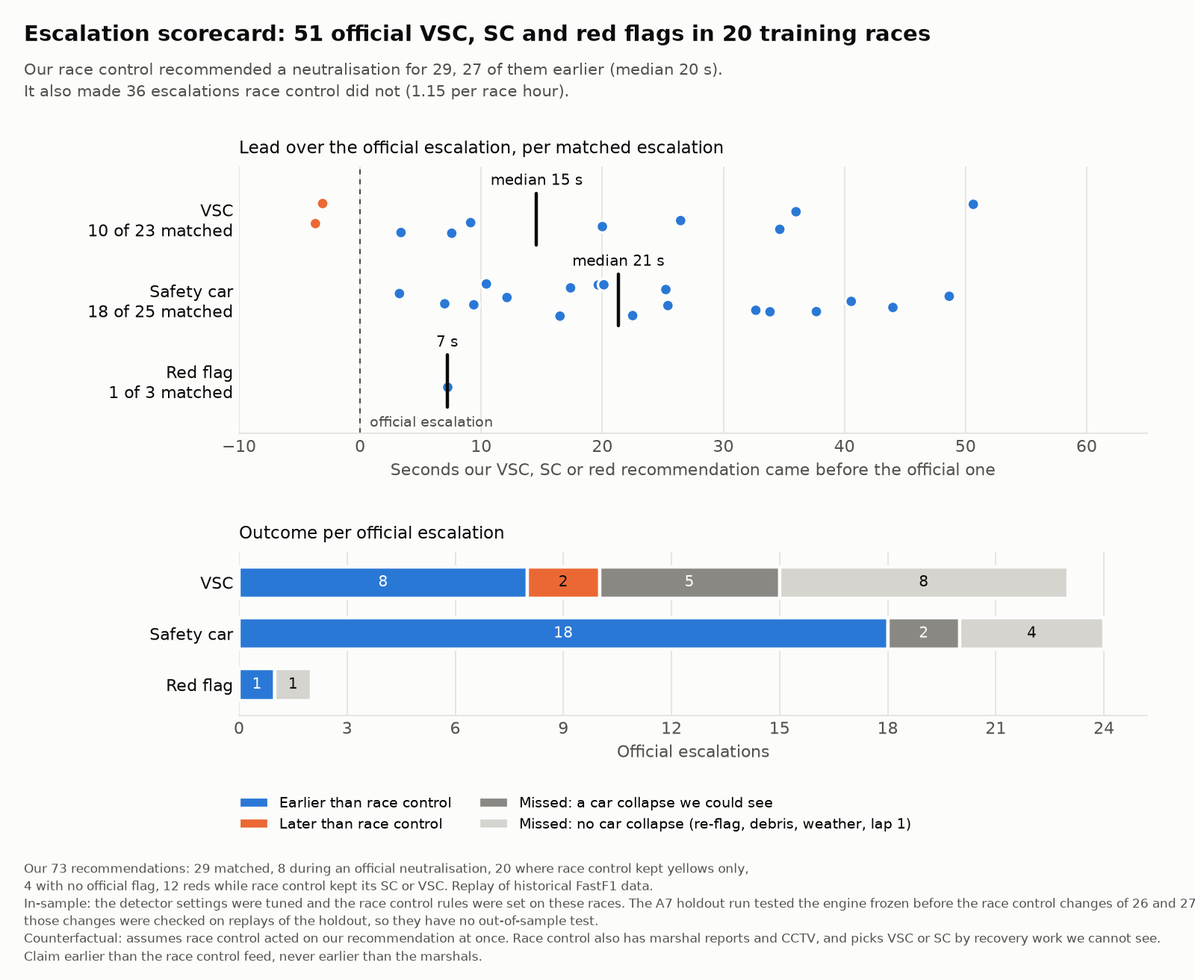
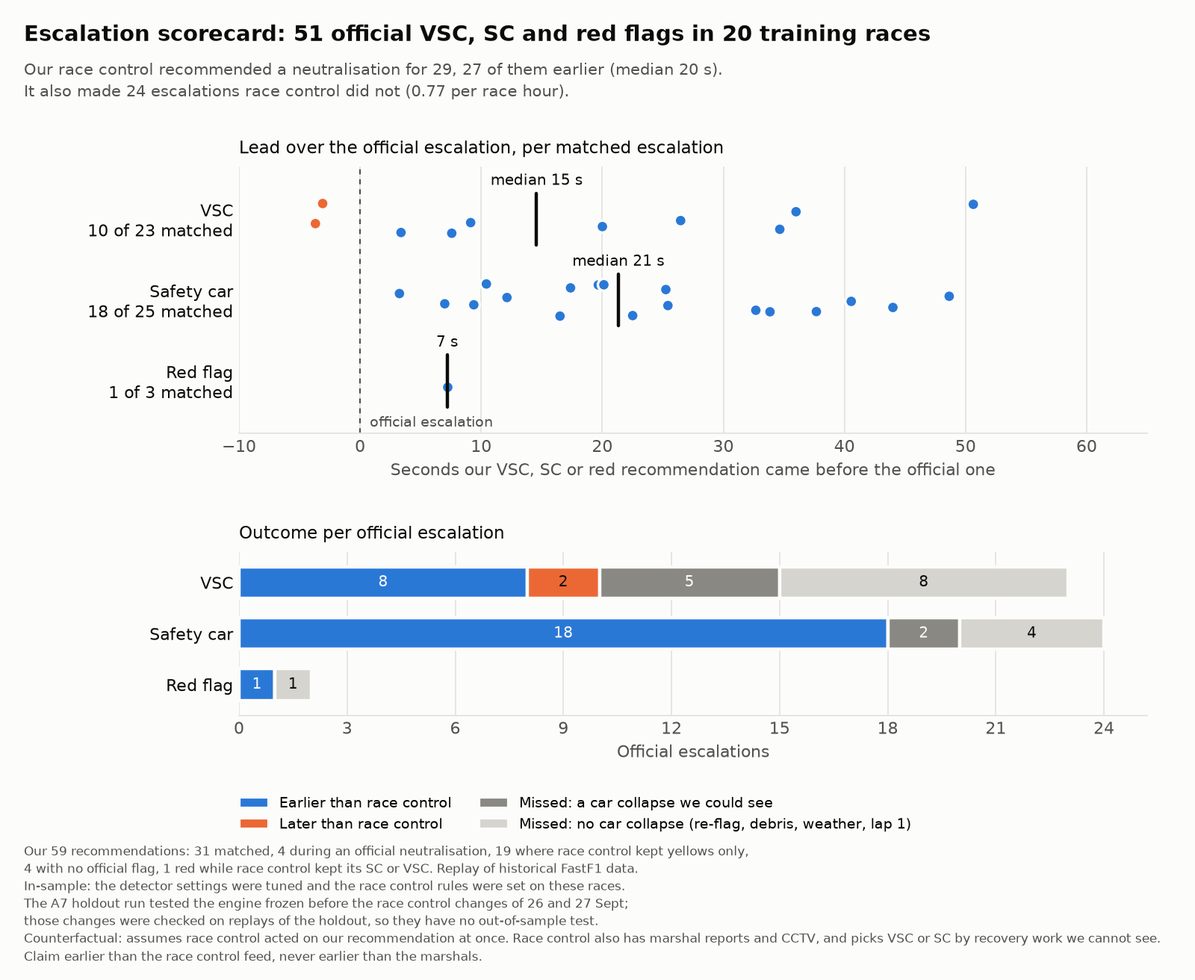
A: escalation scorecard with the late-race red (PR #23): 0.77 extras per race hour, 3 reds
Rerun on main after the lab's red flag fix; the scorecard and case study pass the race
length to race control (race_laps_from_track), as the live client does.

- Headline unchanged: 29 of 51 official escalations recommended, 27 earlier, median 20 s.
- Extras back to 24 (0.77 per race hour). We send 3 reds, all late in the race; race
  control showed a red around 2 of them and never called 1.
- The red check counts a red of ours already out when race control's red came, like
  "already out" for escalations: race control's red for Magnussen (2023 Australia) is a
  separate official incident from its SC, and our red was out 121 s before it. Result:
  red in 2 of race control's 5 red incidents, median 64 s earlier. The per-incident
  "ours only" count is dropped (it split that incident in two); reds race control never
  called are counted per red we send.
- Sweeps rerun: the settings stay 3 s and 10 s.

Changed region(s): [[0.0, 0.8438, 1.0, 0.9375]]

diff --git a/src/eval/escalation.py b/src/eval/escalation.py
@@ -63,7 +63,7 @@ from src.eval.onset import add_own_ratio, onsets
 from src.eval.run import belongs
 from src.ingest.features import NEUTRAL_STATUS
 from src.ingest.holdout import assert_not_holdout
-from src.racecontrol.engine import RaceControl
+from src.racecontrol.engine import RaceControl, race_laps_from_track
 from src.replay.engine import Engine, Processor, RaceData, available_races
 
 CHARTS = Path("docs/charts")
@@ -87,7 +87,7 @@ EXTRA = ("official yellows only", "escalated incident, outside the match window"
 
 def replay(race: RaceData, suite: Processor) -> tuple[list[dict], list[dict], list[float]]:
     """Returns (detections, recommendations, times the engine reset its flag state)."""
-    rc, eng = RaceControl(), Engine(race, [suite])
+    rc, eng = RaceControl(race_laps=race_laps_from_track(race.track)), Engine(race, [suite])
     dets, recs, resets = [], [], []
     for step in eng.steps(eng.t_end):
         for env in step.envelopes:
@@ -140,6 +140,16 @@ def track_wide_at(changes: list[tuple[float, str, int | None]], t: float) -> tup
             break
         since, flag, cause = tc, f, ms
     return flag, since, cause
+
+
+def red_out_since(changes: list[tuple[float, str, int | None]], t: float) -> float | None:
+    """When our track-wide flag last went to RED, if it is still RED at t; None otherwise."""
+    since = None
+    for tc, f, _ in changes:
+        if tc > t:
+            break
+        since = (since if since is not None else tc) if f == "RED" else None
+    return since
 
 
 def status_at(status: pd.Series, t: float) -> str:
@@ -223,6 +233,8 @@ def race_scorecard(rid: str, suite_for: Callable[[RaceData], Processor] = loro_s
         off_red = [m["t"] for m in inc.messages if m["flag"] == "RED"]
         our_red = [r["t"] for r in esc if r["flag"] == "RED" and inc.t - MATCH_BEFORE_S <= r["t"] <= t_end
                    and in_sectors(r["msector"], inc, n)]
+        if off_red and not our_red and (since := red_out_since(changes, min(off_red))) is not None:
+            our_red = [since]    # our red was already out, as "already out" for escalations
         row = {"race": rid, "t_incident": inc.t, "t_official": first["t"], "official_flag": first["flag"],
                "official_top": max((m["flag"] for m in msgs), key=RANK.get),
                "sectors": " ".join(map(str, sorted(inc.sectors))) or "track-wide", "status": "",
@@ -332,23 +344,29 @@ def summarise(results: list[dict]) -> dict:
 
 
 def our_reds(ours: pd.DataFrame) -> dict:
-    """Every red flag we sent: by time at a crash site or for a multi-car crash, and whether
-    race control showed a red around it (its red status, or a RED message from 60 s before to
-    RED_WINDOW_S after)."""
+    """Every red flag we sent: late in the race (the rule in use), by time at a crash site or
+    for a multi-car crash (the old rules, RED_BY_TIME and RED_FROM_MULTI in the engine), and
+    whether race control showed a red around it (its red status, or a RED message from 60 s
+    before to RED_WINDOW_S after)."""
     red = ours[ours["flag"] == "RED"]
     timed = red["reason"].str.contains("crash site", na=False)
+    late = red["reason"].str.contains("laps left", na=False)
     called = red["race_control_red"].astype(bool)
-    return {"total": len(red), "time_based": int(timed.sum()), "multi_car": int((~timed).sum()),
+    return {"total": len(red), "late_race": int(late.sum()), "time_based": int(timed.sum()),
+            "multi_car": int((~timed & ~late).sum()),
             "with_race_control_red": int(called.sum()), "without_race_control_red": int((~called).sum()),
             "time_based_without": int((timed & ~called).sum())}
 
 
 def red_check(off: pd.DataFrame) -> dict:
-    """Red flags per official escalated incident, until race control's TRACK CLEAR:
-    both (lead = official red time - ours), race control only, ours only."""
+    """Race control's red flags per official escalated incident, until its TRACK CLEAR: both
+    (our red in the incident's window, or already out when race control's red came; lead =
+    official red time - ours) or race control only. Reds race control never called are
+    counted per red we sent (our_reds), because race control's red for one crash can be a
+    separate official incident from its SC (2023 Australia, Magnussen)."""
     o, u = off["official_red_t"].notna(), off["our_red_t"].notna()
     lead = (off.loc[o & u, "official_red_t"] - off.loc[o & u, "our_red_t"]).to_numpy(float)
-    return {"both": int((o & u).sum()), "race_control_only": int((o & ~u).sum()), "ours_only": int((~o & u).sum()),
+    return {"both": int((o & u).sum()), "race_control_only": int((o & ~u).sum()),
             "median_lead_s": round(float(np.median(lead)), 1) if len(lead) else None}
 
 
@@ -387,9 +405,9 @@ SEGMENTS = [("earlier", "Earlier than race control", BLUE, SURFACE),
             ("later", "Later than race control", ORANGE, INK),
             ("car collapse seen", "Missed: a car collapse we could see", GRAY_DARK, SURFACE),
             ("no car collapse", "Missed: no car collapse (re-flag, debris, weather, lap 1)", GRAY_LIGHT, INK)]
-IN_SAMPLE = ("In-sample: the detector settings were tuned and the race control rules were set on these races. The A7 "
-             "holdout run tested the engine frozen before the race control changes of 26 and 27 Sept;\nthose changes were checked "
-             "on replays of the holdout, so they have no out-of-sample test.")
+IN_SAMPLE = ("In-sample: the detector settings were tuned and the race control rules were set on these races.\nThe A7 "
+             "holdout run tested the engine frozen before the race control changes of 26 and 27 Sept;\nthose changes were "
+             "checked on replays of the holdout, so they have no out-of-sample test.")
 COUNTERFACTUAL = ("Counterfactual: assumes race control acted on our recommendation at once. Race control also has "
                   "marshal reports and CCTV, and picks VSC or SC by recovery work we cannot see. Claim earlier than "
                   "the race control feed, never earlier than the marshals.")
@@ -486,13 +504,17 @@ def plot(off: pd.DataFrame, summ: dict, path: Path, title: str | None = None, sc
 
 
 def red_text(r: dict, o: dict) -> str:
+    """The red flag line of the report and NUMBERS.md: per official incident, then every red we sent."""
     lead = "" if r["median_lead_s"] is None else f", median {r['median_lead_s']:.0f} s earlier"
+    kinds = ", ".join(f"{n} {what}" for n, what in ((o.get("late_race", 0), "late in the race"),
+                                                    (o["time_based"], "by time at a crash site"),
+                                                    (o["multi_car"], "for multi-car crashes")) if n)
+    timed = f" ({o['time_based_without']} of them by time at a crash site)" if o["time_based_without"] else ""
     return (f"- Red flags: race control showed a red in {r['both'] + r['race_control_only']} of its escalated "
-            f"incidents and we recommended red in {r['both']} of them{lead}. In all we sent {o['total']} red flags "
-            f"({o['time_based']} by time at a crash site, {o['multi_car']} for multi-car crashes); race control showed "
-            f"a red around {o['with_race_control_red']} of them, and {o['without_race_control_red']} were reds race "
-            f"control never called ({o['time_based_without']} of them by time at a crash site). The data cannot see "
-            "barrier damage, debris or medical needs: do not claim red flag accuracy.")
+            f"incidents and we recommended red in {r['both']} of them{lead}. In all we sent {o['total']} red "
+            f"flag{'' if o['total'] == 1 else 's'}{f' ({kinds})' if kinds else ''}; race control showed a red around "
+            f"{o['with_race_control_red']} of them and never called {o['without_race_control_red']}{timed}. The data "
+            "cannot see barrier damage, debris or medical needs: do not claim red flag accuracy.")
 
 
 def pairs_text(pairs: dict[str, int]) -> str:
@@ -544,8 +566,8 @@ def write_report(off: pd.DataFrame, ours: pd.DataFrame, summ: dict, results: lis
               f"- Extra, race control never escalated: {summ['extra']}, {summ['extra_per_hour']:.2f} per race hour "
               f"({c['official yellows only']} where race control kept yellows only, "
               f"{c['escalated incident, outside the match window']} near an escalated incident but outside its "
-              f"match window, {c['no official flag']} with no official flag, {c[RED_UNCALLED]} red flags race control "
-              "never called while its own SC or VSC was out). By flag: "
+              f"match window, {c['no official flag']} with no official flag, {c[RED_UNCALLED]} red "
+              f"flag{'' if c[RED_UNCALLED] == 1 else 's'} race control never called while its own SC or VSC was out). By flag: "
               + ", ".join(f"{FLAG_NAME[k]} {v}" for k, v in summ["extra_by_flag"].items()) + ".",
               f"- Race control engine resets (tick jumps over 2 s): {summ['engine_resets']}.", "",
               "## Flag choice: VSC or SC", "",

diff --git a/src/eval/numbers.py b/src/eval/numbers.py
@@ -243,8 +243,8 @@ def escalation() -> list[str]:
             f"- Escalations race control never made: {e['extra']} in {e['race_hours']:.1f} race hours = "
             f"{e['extra_per_hour']:.2f} per race hour ({c['official yellows only']} where race control kept yellows "
             f"only, {c['escalated incident, outside the match window']} near an official escalation but outside its "
-            f"match window, {c['no official flag']} with no official flag, {c.get(RED_UNCALLED, 0)} red flags race "
-            "control never called while its own SC or VSC was out).",
+            f"match window, {c['no official flag']} with no official flag, {c.get(RED_UNCALLED, 0)} red "
+            f"flag{'' if c.get(RED_UNCALLED, 0) == 1 else 's'} race control never called while its own SC or VSC was out).",
             f"- Flag choice: same first flag as race control in {e['same_first_flag']} of {e['matched']}; our "
             f"{len(ours)} recommendations by flag: {by_ours}. FastF1 puts stopped cars on the racing line, so the "
             f"lateral offset cannot tell VSC from SC; an impact can: \"SC after an impact, VSC otherwise\" separates "
@@ -255,23 +255,19 @@ def escalation() -> list[str]:
             f"{e.get('track_clears_under_neutral', 'n/a')}.",
             "- Race control changed after the holdout run (26 and 27 Sept): our SC or VSC stays out while race control's own "
             "SC, VSC or red is out, a crashed car still at its crash site keeps its sector flagged until race control's "
-            "track status is green, and a crashed car still at its crash site after 2 minutes gets a red flag that "
-            "never blocks another incident's escalation (PROJECT_BRIEF 6.5). These changes were checked on replays of "
-            "the 2026 Azerbaijan holdout, so they have no out-of-sample test; the holdout section below is from the "
-            "engine frozen before them.",
+            "track status is green, and our red flag comes only late in the race: our SC or VSC out for an incident "
+            "that is still there, with 2 to 4 laps left (the race length comes from the lap length, before the race), "
+            "so the race can restart and finish racing. A crashed car still at its crash site after 2 minutes only "
+            "gets an advisory, and a multi-car crash alone calls the SC (PROJECT_BRIEF 6.5, docs/lab/red_flag.md). The "
+            "red never blocks another incident's escalation. The first changes were checked on replays of the 2026 "
+            "Azerbaijan holdout, so they have no out-of-sample test; the late-race red was tuned on the training races, "
+            "with 2021 Azerbaijan as a check. The holdout section below is from the engine frozen before them.",
             ""]
 
 
 def red_line(r: dict | None, o: dict | None) -> list[str]:
-    if not r or not o:
-        return []
-    lead = "" if r["median_lead_s"] is None else f", median {r['median_lead_s']:.0f} s earlier"
-    return [f"- Red flags: race control showed a red in {r['both'] + r['race_control_only']} of its escalated "
-            f"incidents and we recommended red in {r['both']} of them{lead}. In all we sent {o['total']} red flags "
-            f"({o['time_based']} by time at a crash site, {o['multi_car']} for multi-car crashes); {o['with_race_control_red']} "
-            f"had a race control red around them and {o['without_race_control_red']} did not ({o['time_based_without']} "
-            "of those by time at a crash site). Do not claim red flag accuracy: the data cannot see barrier damage, "
-            "debris or medical needs."]
+    from src.eval.escalation import red_text
+    return [red_text(r, o)] if r and o else []
 
 
 def lab_delay_cost() -> list[str]:

diff --git a/tests/test_eval.py b/tests/test_eval.py
@@ -114,12 +114,26 @@ def test_an_engine_reset_ends_the_flag_so_the_next_sc_is_an_escalation() -> None
 
 
 def test_every_red_we_send_is_counted_by_cause_and_by_race_control_red() -> None:
-    from src.eval.escalation import OURS_COLUMNS, our_reds
-    rows = [("RED", "car 1 stopped at its crash site for 2 min", True),
+    from src.eval.escalation import OURS_COLUMNS, our_reds, red_text
+    rows = [("RED", "SC out for a live incident with about 3 laps left: a red flag", True),
+            ("RED", "car 1 stopped at its crash site for 2 min", True),
             ("RED", "car 2 stopped at its crash site for 2 min", False),
             ("RED", "multi-car crash in sector 4", False),
             ("SC", "car 3 stopped after an impact", None)]
     ours = pd.DataFrame([{**dict.fromkeys(OURS_COLUMNS), "flag": f, "reason": why, "race_control_red": rc}
                          for f, why, rc in rows])
-    assert our_reds(ours) == {"total": 3, "time_based": 2, "multi_car": 1, "with_race_control_red": 1,
+    assert our_reds(ours) == {"total": 4, "late_race": 1, "time_based": 2, "multi_car": 1, "with_race_control_red": 2,
                               "without_race_control_red": 2, "time_based_without": 1}
+    late_only = our_reds(ours.iloc[[0, 4]])
+    text = red_text({"both": 1, "race_control_only": 4, "median_lead_s": 12.0}, late_only)
+    assert "we sent 1 red flag (1 late in the race);" in text and "crash site" not in text   # no empty kinds
+
+
+def test_a_red_already_out_counts_like_an_escalation_already_out() -> None:
+    from src.eval.escalation import red_out_since
+    changes = [(10.0, "SC", 3), (40.0, "RED", 3), (60.0, "RED", 3), (90.0, "SC", 3), (100.0, "RED", 5),
+               (130.0, "CLEAR", None)]
+    assert red_out_since(changes, 70.0) == 40.0       # from the first red of the run, not its restatement
+    assert red_out_since(changes, 95.0) is None       # a downgrade ended it
+    assert red_out_since(changes, 120.0) == 100.0
+    assert red_out_since(changes, 140.0) is None      # TRACK CLEAR

diff --git a/src/eval/case_study.py b/src/eval/case_study.py
@@ -70,17 +70,20 @@ def run_pipeline(race: RaceData) -> tuple[list[dict], list[dict] | None, str]:
     eng = Engine(race, all_processors(race))
     envs = eng.advance(eng.t_end)
     dets = sorted((e["data"] for e in envs if e["kind"] == "detection"), key=lambda d: d["t"])
-    recs, source = recommendations(envs)
+    from src.racecontrol.engine import race_laps_from_track
+    recs, source = recommendations(envs, race_laps_from_track(race.track))
     return dets, recs, source
 
 
-def recommendations(envelopes: list[dict]) -> tuple[list[dict] | None, str]:
+def recommendations(envelopes: list[dict], race_laps: int | None = None) -> tuple[list[dict] | None, str]:
+    """Our recs for the envelopes. race_laps: the race length for the late-race red flag
+    (src.racecontrol.engine.race_laps_from_track)."""
     try:
         from src.racecontrol.engine import RaceControl
     except Exception as e:  # not on this branch yet
         return None, (f"pending: the race control engine (src/racecontrol, Ishaan) is not importable here "
                       f"({type(e).__name__}); rerun once it is on main")
-    rc = RaceControl()
+    rc = RaceControl(race_laps=race_laps)
     recs = []
     for env in envelopes:
         handler = {"tick": rc.on_tick, "detection": rc.on_detection, "risk": rc.on_risk}.get(env["kind"])

diff --git a/src/eval/escalation_sweep.py b/src/eval/escalation_sweep.py
@@ -42,7 +42,7 @@ def row(name: str, value: float, summ: dict) -> dict:
             "same_first_flag": summ["same_first_flag"],
             **{f"our_{f.lower()}": v for f, v in summ["our_by_flag"].items() if f in ESCALATIONS},
             "red_both": summ["red_check"]["both"], "red_race_control_only": summ["red_check"]["race_control_only"],
-            "red_ours_only": summ["red_check"]["ours_only"], "red_median_lead_s": summ["red_check"]["median_lead_s"],
+            "red_median_lead_s": summ["red_check"]["median_lead_s"],
             "our_reds_uncalled": summ["our_reds"]["without_race_control_red"],
             "extra": summ["extra"], "extra_per_hour": summ["extra_per_hour"],
             "extra_yellows_only": c["official yellows only"], "extra_no_official_flag": c["no official flag"],

diff --git a/docs/charts/escalation.md b/docs/charts/escalation.md
@@ -2,7 +2,8 @@
 
 Replay of historical FastF1 data: 20 training races, 31.2 race hours. Our side is the race control engine (src/racecontrol) fed by the production detector settings with an ANOMALY model trained on the other training races. Definitions: src/eval/escalation.py.
 
-In-sample: the detector settings were tuned and the race control rules were set on these races. The A7 holdout run tested the engine frozen before the race control changes of 26 and 27 Sept;
+In-sample: the detector settings were tuned and the race control rules were set on these races.
+The A7 holdout run tested the engine frozen before the race control changes of 26 and 27 Sept;
 those changes were checked on replays of the holdout, so they have no out-of-sample test.
 
 Counterfactual: assumes race control acted on our recommendation at once. Race control also has marshal reports and CCTV, and picks VSC or SC by recovery work we cannot see. Claim earlier than the race control feed, never earlier than the marshals.
@@ -11,8 +12,8 @@ Counterfactual: assumes race control acted on our recommendation at once. Race c
 
 - We recommended a VSC, SC or red for 29 of 51 (57%): 27 earlier than race control, 2 later. Median lead 20.0 s (middle half 9.1 to 33.9 s).
 - Already out (our flag was up before, no new recommendation): 2. Missed: 20, of which 7 had a car collapse our onset rule found and 13 had none.
-- Same first flag as race control: 22 of 29 (official Red flag and ours Red flag: 1; official Safety car and ours Red flag: 2; official Safety car and ours Safety car: 13; official Safety car and ours VSC: 3; official VSC and ours Safety car: 2; official VSC and ours VSC: 8).
-- Red flags: race control showed a red in 5 of its escalated incidents and we recommended red in 3 of them, median 51 s earlier. In all we sent 23 red flags (15 by time at a crash site, 8 for multi-car crashes); race control showed a red around 5 of them, and 18 were reds race control never called (11 of them by time at a crash site). The data cannot see barrier damage, debris or medical needs: do not claim red flag accuracy.
+- Same first flag as race control: 23 of 29 (official Red flag and ours Safety car: 1; official Safety car and ours Safety car: 15; official Safety car and ours VSC: 3; official VSC and ours Safety car: 2; official VSC and ours VSC: 8).
+- Red flags: race control showed a red in 5 of its escalated incidents and we recommended red in 2 of them, median 64 s earlier. In all we sent 3 red flags (3 late in the race); race control showed a red around 2 of them and never called 1. The data cannot see barrier damage, debris or medical needs: do not claim red flag accuracy.
 - Our TRACK CLEARs while race control's track status showed its own SC, VSC or red: 0.
 
 | official flag | escalations | earlier | later | missed | median lead (s) |
@@ -46,16 +47,16 @@ Missed official escalations:
 | 2026_Dutch | 10659.2 | VSC | track-wide | car collapse seen | car 23 collapsed 99 s before the first official message; we made no recommendation |
 | 2026_Italian | 3613.8 | SC | 14 15 16 | no car collapse | no car collapsed below 50% (debris, weather, or a car that went off and kept going) |
 
-## Our escalations: 73
+## Our escalations: 59
 
-- Matched an official escalation: 29. During an official neutralisation (not extra): 8.
-- Extra, race control never escalated: 36, 1.15 per race hour (20 where race control kept yellows only, 0 near an escalated incident but outside its match window, 4 with no official flag, 12 red flags race control never called while its own SC or VSC was out). By flag: VSC 6, Safety car 14, Red flag 16.
+- Matched an official escalation: 31. During an official neutralisation (not extra): 4.
+- Extra, race control never escalated: 24, 0.77 per race hour (19 where race control kept yellows only, 0 near an escalated incident but outside its match window, 4 with no official flag, 1 red flag race control never called while its own SC or VSC was out). By flag: VSC 6, Safety car 17, Red flag 1.
 - Race control engine resets (tick jumps over 2 s): 0.
 
 ## Flag choice: VSC or SC
 
-- Our first flag matched race control's in 22 of 29 matched escalations (official Red flag and ours Red flag: 1; official Safety car and ours Red flag: 2; official Safety car and ours Safety car: 13; official Safety car and ours VSC: 3; official VSC and ours Safety car: 2; official VSC and ours VSC: 8).
-- Our 73 recommendations by flag: VSC 17, Safety car 33, Red flag 23.
+- Our first flag matched race control's in 23 of 29 matched escalations (official Red flag and ours Safety car: 1; official Safety car and ours Safety car: 15; official Safety car and ours VSC: 3; official VSC and ours Safety car: 2; official VSC and ours VSC: 8).
+- Our 59 recommendations by flag: VSC 17, Safety car 39, Red flag 3.
 - The lateral offset cannot choose between them. FastF1 positions of stopped cars sit on the racing line, even for retired cars parked in run-off: of 616,792 stopped-car rows (below 5 km/h, outside the pit lane), 99.97% are within 1 m of it and 118 are more than 8 m away (short episodes: 2026_Italian car 16, 2026_Miami car 6).
 - An impact separates them better. On the 26 official escalations with an onset car, 8 of 13 SC or red followed an IMPACT or MULTI detection involving the car and 10 of 13 VSC did not: "SC after an impact, VSC otherwise" separates race control's VSCs from its SCs and reds correctly 18 times, "always SC" 13 times. This check does not tell SC from red; exact agreement is the first line. In-sample, and a small sample.
 
@@ -64,24 +65,24 @@ Missed official escalations:
 | race | race hours | official escalations | earlier | later | missed | our escalations | extra |
 |---|---|---|---|---|---|---|---|
 | 2023_Australian | 1.46 | 6 | 4 | 0 | 1 | 6 | 0 |
-| 2023_Mexico_City | 1.68 | 2 | 1 | 0 | 1 | 4 | 1 |
-| 2023_Monaco | 1.82 | 0 | 0 | 0 | 0 | 6 | 6 |
-| 2024_Canadian | 1.77 | 2 | 2 | 0 | 0 | 6 | 4 |
-| 2024_Mexico_City | 1.68 | 1 | 1 | 0 | 0 | 2 | 1 |
-| 2024_Qatar | 1.51 | 3 | 1 | 1 | 1 | 5 | 2 |
+| 2023_Mexico_City | 1.68 | 2 | 1 | 0 | 1 | 3 | 1 |
+| 2023_Monaco | 1.82 | 0 | 0 | 0 | 0 | 5 | 5 |
+| 2024_Canadian | 1.77 | 2 | 2 | 0 | 0 | 5 | 3 |
+| 2024_Mexico_City | 1.68 | 1 | 1 | 0 | 0 | 1 | 0 |
+| 2024_Qatar | 1.51 | 3 | 1 | 1 | 1 | 4 | 1 |
 | 2024_São_Paulo | 1.69 | 4 | 2 | 0 | 2 | 3 | 1 |
-| 2025_Australian | 1.68 | 3 | 3 | 0 | 0 | 8 | 5 |
-| 2025_Azerbaijan | 1.56 | 1 | 1 | 0 | 0 | 3 | 2 |
-| 2025_Belgian | 1.41 | 0 | 0 | 0 | 0 | 2 | 1 |
-| 2025_British | 1.62 | 4 | 2 | 0 | 2 | 5 | 3 |
+| 2025_Australian | 1.68 | 3 | 3 | 0 | 0 | 5 | 2 |
+| 2025_Azerbaijan | 1.56 | 1 | 1 | 0 | 0 | 2 | 1 |
+| 2025_Belgian | 1.41 | 0 | 0 | 0 | 0 | 1 | 0 |
+| 2025_British | 1.62 | 4 | 2 | 0 | 2 | 4 | 2 |
 | 2025_Dutch | 1.64 | 4 | 1 | 0 | 3 | 1 | 0 |
 | 2025_Miami | 1.48 | 3 | 1 | 1 | 1 | 2 | 0 |
 | 2026_Australian | 1.39 | 3 | 2 | 0 | 1 | 2 | 0 |
-| 2026_Belgian | 1.41 | 3 | 1 | 0 | 2 | 2 | 1 |
+| 2026_Belgian | 1.41 | 3 | 1 | 0 | 2 | 1 | 0 |
 | 2026_British | 1.46 | 4 | 2 | 0 | 1 | 4 | 2 |
 | 2026_Canadian | 1.47 | 3 | 0 | 0 | 3 | 1 | 1 |
 | 2026_Dutch | 1.61 | 2 | 1 | 0 | 1 | 3 | 2 |
-| 2026_Italian | 1.32 | 2 | 1 | 0 | 1 | 5 | 2 |
-| 2026_Miami | 1.56 | 1 | 1 | 0 | 0 | 3 | 2 |
+| 2026_Italian | 1.32 | 2 | 1 | 0 | 1 | 4 | 2 |
+| 2026_Miami | 1.56 | 1 | 1 | 0 | 0 | 2 | 1 |
 
 Chart: escalation.png. Every official escalation: escalation_official.csv. Every recommendation of ours: escalation_ours.csv.

diff --git a/docs/charts/escalation_sweep_VSC_STOPPED_HOLD_S.md b/docs/charts/escalation_sweep_VSC_STOPPED_HOLD_S.md
@@ -2,10 +2,10 @@
 
 Replay of historical FastF1 data, 20 training races, 31.2 race hours. Each row reruns python -m src.eval.escalation with src.racecontrol.engine.VSC_STOPPED_HOLD_S set to that value (in the worker processes only). In-sample. The A7 holdout run tested the engine frozen before the race control changes of 26 and 27 Sept; those changes were checked on replays of the holdout, so they have no out-of-sample test.
 
-| VSC_STOPPED_HOLD_S | official | matched | earlier | later | missed | median_lead_s | lead_p25_s | lead_p75_s | same_first_flag | our_vsc | our_sc | our_red | red_both | red_race_control_only | red_ours_only | red_median_lead_s | our_reds_uncalled | extra | extra_per_hour | extra_yellows_only | extra_no_official_flag | extra_outside_window | extra_red_uncalled | track_clears_under_neutral |
-|---|---|---|---|---|---|---|---|---|---|---|---|---|---|---|---|---|---|---|---|---|---|---|---|---|
-| 5 | 51 | 29 | 28 | 1 | 20 | 20.1 | 12 | 33.9 | 22 | 20 | 33 | 23 | 3 | 2 | 13 | 51.4 | 18 | 39 | 1.25 | 23 | 4 | 0 | 12 | 0 |
-| 10 | 51 | 29 | 27 | 2 | 20 | 20 | 9.1 | 33.9 | 22 | 17 | 33 | 23 | 3 | 2 | 13 | 51.4 | 18 | 36 | 1.15 | 20 | 4 | 0 | 12 | 0 |
-| 15 | 51 | 29 | 26 | 3 | 20 | 17.5 | 7.2 | 32.7 | 22 | 16 | 33 | 23 | 3 | 2 | 13 | 51.4 | 18 | 35 | 1.12 | 19 | 4 | 0 | 12 | 0 |
-| 20 | 51 | 28 | 22 | 6 | 20 | 16.9 | 6.2 | 28.9 | 22 | 13 | 33 | 23 | 3 | 2 | 13 | 51.4 | 18 | 33 | 1.06 | 18 | 3 | 0 | 12 | 0 |
-| 30 | 51 | 28 | 22 | 6 | 20 | 15.6 | 2.4 | 26.7 | 22 | 12 | 33 | 23 | 3 | 2 | 13 | 51.4 | 18 | 32 | 1.02 | 17 | 3 | 0 | 12 | 0 |
+| VSC_STOPPED_HOLD_S | official | matched | earlier | later | missed | median_lead_s | lead_p25_s | lead_p75_s | same_first_flag | our_vsc | our_sc | our_red | red_both | red_race_control_only | red_median_lead_s | our_reds_uncalled | extra | extra_per_hour | extra_yellows_only | extra_no_official_flag | extra_outside_window | extra_red_uncalled | track_clears_under_neutral |
+|---|---|---|---|---|---|---|---|---|---|---|---|---|---|---|---|---|---|---|---|---|---|---|---|
+| 5 | 51 | 29 | 28 | 1 | 20 | 20.1 | 12 | 33.9 | 23 | 20 | 39 | 3 | 2 | 3 | 64.1 | 1 | 27 | 0.86 | 22 | 4 | 0 | 1 | 0 |
+| 10 | 51 | 29 | 27 | 2 | 20 | 20 | 9.1 | 33.9 | 23 | 17 | 39 | 3 | 2 | 3 | 64.1 | 1 | 24 | 0.77 | 19 | 4 | 0 | 1 | 0 |
+| 15 | 51 | 29 | 26 | 3 | 20 | 17.5 | 7.2 | 32.7 | 23 | 16 | 39 | 3 | 2 | 3 | 64.1 | 1 | 23 | 0.74 | 18 | 4 | 0 | 1 | 0 |
+| 20 | 51 | 28 | 22 | 6 | 20 | 16.9 | 6.2 | 28.9 | 23 | 13 | 39 | 3 | 2 | 3 | 64.1 | 1 | 21 | 0.67 | 17 | 3 | 0 | 1 | 0 |
+| 30 | 51 | 28 | 22 | 6 | 20 | 15.6 | 2.4 | 26.7 | 23 | 12 | 39 | 3 | 2 | 3 | 64.1 | 1 | 20 | 0.64 | 16 | 3 | 0 | 1 | 0 |

diff --git a/docs/charts/escalation_sweep_SC_STOPPED_HOLD_S.md b/docs/charts/escalation_sweep_SC_STOPPED_HOLD_S.md
@@ -2,9 +2,9 @@
 
 Replay of historical FastF1 data, 20 training races, 31.2 race hours. Each row reruns python -m src.eval.escalation with src.racecontrol.engine.SC_STOPPED_HOLD_S set to that value (in the worker processes only). In-sample. The A7 holdout run tested the engine frozen before the race control changes of 26 and 27 Sept; those changes were checked on replays of the holdout, so they have no out-of-sample test.
 
-| SC_STOPPED_HOLD_S | official | matched | earlier | later | missed | median_lead_s | lead_p25_s | lead_p75_s | same_first_flag | our_vsc | our_sc | our_red | red_both | red_race_control_only | red_ours_only | red_median_lead_s | our_reds_uncalled | extra | extra_per_hour | extra_yellows_only | extra_no_official_flag | extra_outside_window | extra_red_uncalled | track_clears_under_neutral |
-|---|---|---|---|---|---|---|---|---|---|---|---|---|---|---|---|---|---|---|---|---|---|---|---|---|
-| 3 | 51 | 29 | 27 | 2 | 20 | 20 | 9.1 | 33.9 | 22 | 17 | 33 | 23 | 3 | 2 | 13 | 51.4 | 18 | 36 | 1.15 | 20 | 4 | 0 | 12 | 0 |
-| 5 | 51 | 29 | 27 | 2 | 20 | 18.1 | 7.6 | 31.9 | 22 | 17 | 31 | 23 | 3 | 2 | 13 | 51.4 | 18 | 34 | 1.09 | 18 | 4 | 0 | 12 | 0 |
-| 8 | 51 | 29 | 26 | 3 | 20 | 15.1 | 7.1 | 28.9 | 22 | 17 | 29 | 23 | 3 | 2 | 13 | 51.4 | 18 | 32 | 1.02 | 16 | 4 | 0 | 12 | 0 |
-| 10 | 51 | 29 | 26 | 3 | 20 | 13.1 | 7 | 26.9 | 22 | 17 | 27 | 23 | 3 | 2 | 13 | 51.4 | 18 | 31 | 0.99 | 15 | 4 | 0 | 12 | 0 |
+| SC_STOPPED_HOLD_S | official | matched | earlier | later | missed | median_lead_s | lead_p25_s | lead_p75_s | same_first_flag | our_vsc | our_sc | our_red | red_both | red_race_control_only | red_median_lead_s | our_reds_uncalled | extra | extra_per_hour | extra_yellows_only | extra_no_official_flag | extra_outside_window | extra_red_uncalled | track_clears_under_neutral |
+|---|---|---|---|---|---|---|---|---|---|---|---|---|---|---|---|---|---|---|---|---|---|---|---|
+| 3 | 51 | 29 | 27 | 2 | 20 | 20 | 9.1 | 33.9 | 23 | 17 | 39 | 3 | 2 | 3 | 64.1 | 1 | 24 | 0.77 | 19 | 4 | 0 | 1 | 0 |
+| 5 | 51 | 29 | 27 | 2 | 20 | 18.1 | 7.6 | 31.9 | 23 | 17 | 37 | 3 | 2 | 3 | 64.1 | 1 | 22 | 0.7 | 17 | 4 | 0 | 1 | 0 |
+| 8 | 51 | 29 | 26 | 3 | 20 | 15.1 | 7.1 | 28.9 | 23 | 17 | 36 | 3 | 2 | 3 | 64.1 | 1 | 21 | 0.67 | 16 | 4 | 0 | 1 | 0 |
+| 10 | 51 | 29 | 26 | 3 | 20 | 13.1 | 7 | 26.9 | 23 | 17 | 34 | 3 | 2 | 3 | 64.1 | 1 | 20 | 0.64 | 15 | 4 | 0 | 1 | 0 |
